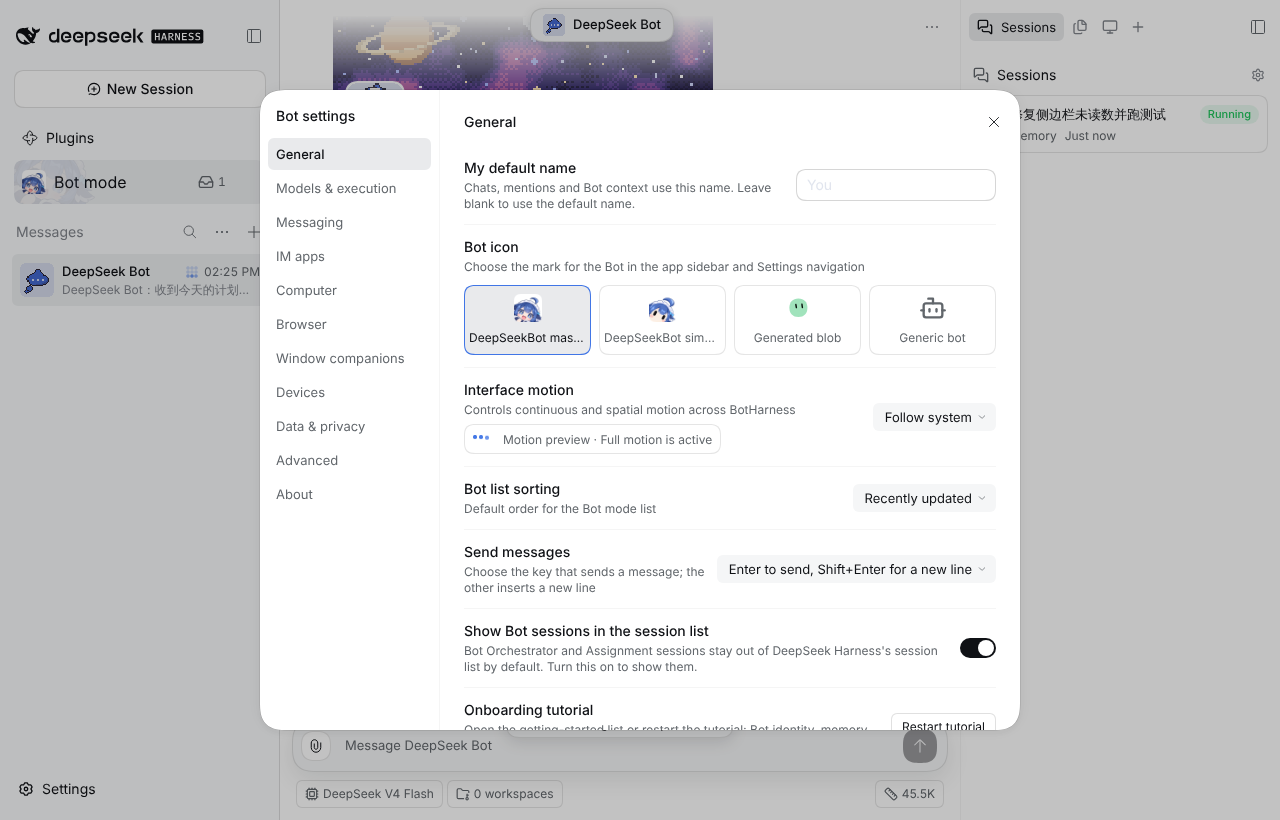
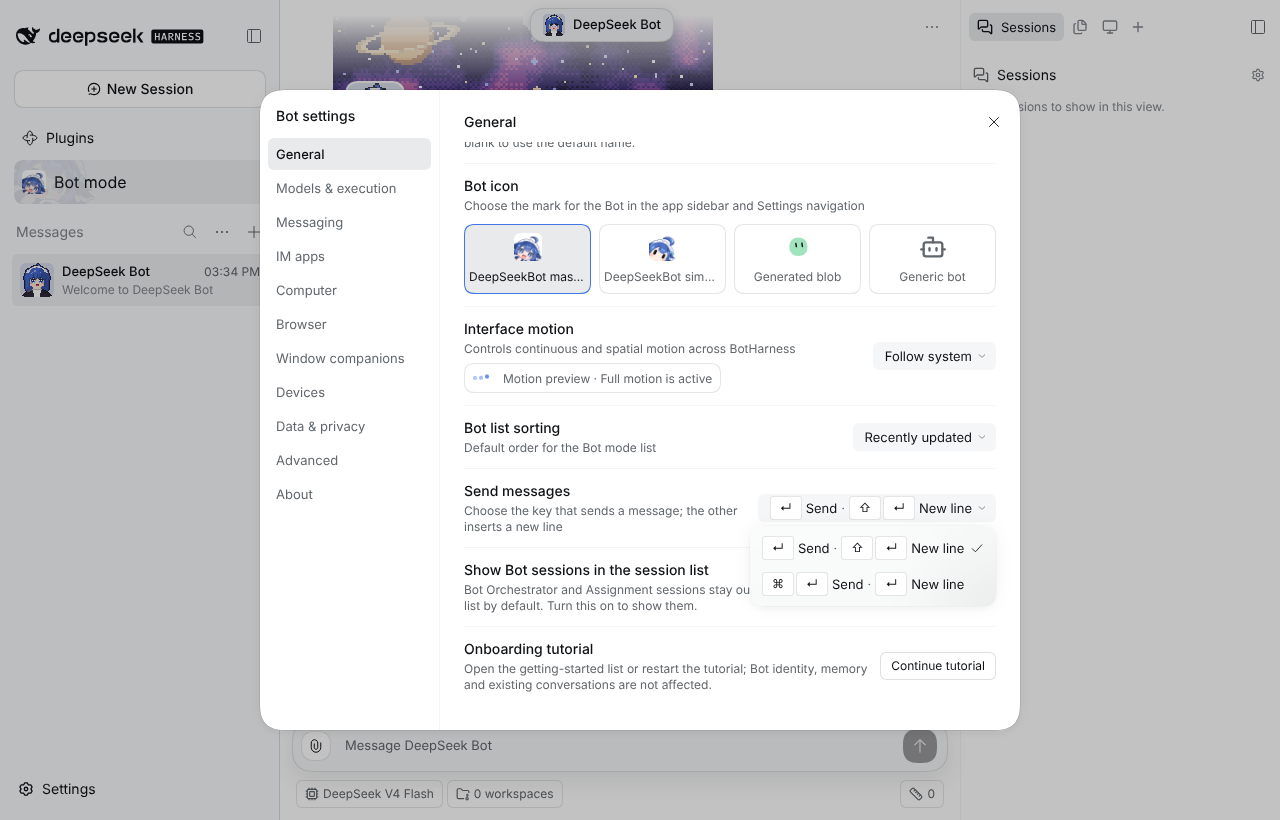
Show the send-key choice as platform-aware keycaps
The Send messages options now render ↵, ⇧ and ⌘ (Ctrl on Windows and
Linux) as <kbd> keycaps instead of spelled-out key names, through a
shared ds/kbd helper.

Claude-Session: https://claude.ai/code/session_019q18LhG5kvqi82FD7eCHrf

diff --git a/packages/client/src/client/bot-mode-setting-rows.tsx b/packages/client/src/client/bot-mode-setting-rows.tsx
@@ -16,6 +16,7 @@ import {
 import { AssignmentConcurrencySetting } from './assignment-concurrency-setting.js';
 import { BotIcon } from './bot-icon.js';
 import type { BotModePrefsFace } from './bot-mode-prefs.js';
+import { isApplePlatform, KeyCombo, type ShortcutKey } from './ds/kbd.js';
 import { Select } from './ds/select.js';
 import { SettingsRow } from './ds/settings-row.js';
 import { border, color, radius, space, text } from './ds/tokens.stylex.js';
@@ -35,18 +36,34 @@ const ICON_OPTIONS: readonly { id: BotModeIcon; label: BotHarnessKey }[] = [
   { id: 'bot', label: 'icon.bot' },
 ];
 
-const MOTION_OPTIONS: readonly { id: BotModeMotionPreference; label: BotHarnessKey }[] = [
+const MOTION_OPTIONS: readonly {
+  id: BotModeMotionPreference;
+  label: BotHarnessKey;
+}[] = [
   { id: 'system', label: 'motion.system' },
   { id: 'reduce', label: 'motion.reduce' },
   { id: 'full', label: 'motion.full' },
 ];
 
-const SEND_KEY_OPTIONS: readonly { id: BotModeSendKey; label: BotHarnessKey }[] = [
-  { id: 'enter', label: 'sendKey.enter' },
-  { id: 'mod-enter', label: 'sendKey.modEnter' },
+const SEND_KEY_OPTIONS: readonly {
+  id: BotModeSendKey;
+  send: readonly ShortcutKey[];
+  newline: readonly ShortcutKey[];
+}[] = [
+  { id: 'enter', send: ['Enter'], newline: ['Shift', 'Enter'] },
+  { id: 'mod-enter', send: ['Mod', 'Enter'], newline: ['Enter'] },
 ];
 
 const styles = stylex.create({
+  sendKey: {
+    display: 'inline-flex',
+    alignItems: 'center',
+    gap: space.x2,
+    whiteSpace: 'nowrap',
+  },
+  sendKeySeparator: {
+    color: color.muted,
+  },
   grid: {
     display: 'grid',
     gridTemplateColumns: 'repeat(auto-fill, minmax(112px, 1fr))',
@@ -63,19 +80,29 @@ const styles = stylex.create({
     paddingInline: space.x2,
     borderWidth: border.hairline,
     borderStyle: 'solid',
-    borderColor: { default: color.border, ':is([aria-checked=true])': color.accent },
+    borderColor: {
+      default: color.border,
+      ':is([aria-checked=true])': color.accent,
+    },
     borderRadius: radius.md,
     backgroundColor: {
       default: 'transparent',
       ':hover': color.hover,
       ':is([aria-checked=true])': color.selected,
     },
-    color: { default: color.muted, ':hover': color.fg, ':is([aria-checked=true])': color.fg },
+    color: {
+      default: color.muted,
+      ':hover': color.fg,
+      ':is([aria-checked=true])': color.fg,
+    },
     fontFamily: 'inherit',
     fontSize: text.metaSize,
     lineHeight: text.metaLine,
     cursor: 'pointer',
-    outline: { default: 'none', ':focus-visible': `${border.focus} solid ${color.accent}` },
+    outline: {
+      default: 'none',
+      ':focus-visible': `${border.focus} solid ${color.accent}`,
+    },
   },
   art: {
     pointerEvents: 'none',
@@ -158,7 +185,10 @@ export function MotionSetting({
         <Select
           label={t('motion.menu.label')}
           value={prefs.motionPreference}
-          options={MOTION_OPTIONS.map((option) => ({ value: option.id, label: t(option.label) }))}
+          options={MOTION_OPTIONS.map((option) => ({
+            value: option.id,
+            label: t(option.label),
+          }))}
           onChange={(id) => {
             if (isBotModeMotionPreference(id)) setMotionPreference(id);
           }}
@@ -194,7 +224,10 @@ export function SortSetting({
         <Select
           label={t('sort.menu.label')}
           value={prefs.sortMode}
-          options={SORT_OPTIONS.map((option) => ({ value: option.id, label: t(option.label) }))}
+          options={SORT_OPTIONS.map((option) => ({
+            value: option.id,
+            label: t(option.label),
+          }))}
           onChange={(id) => {
             if (isBotModeSortMode(id)) setSortMode(id);
           }}
@@ -208,7 +241,8 @@ export function SendKeySetting({
   t,
   useBotModePrefs,
   setSendKey,
-}: BotModeSettingRowProps): ReactElement {
+  apple = isApplePlatform(),
+}: BotModeSettingRowProps & { apple?: boolean }): ReactElement {
   const sendKey = useBotModePrefs((value) => value.sendKey);
   return (
     <SettingsRow
@@ -219,7 +253,18 @@ export function SendKeySetting({
         <Select
           label={t('sendKey.row.title')}
           value={sendKey}
-          options={SEND_KEY_OPTIONS.map((option) => ({ value: option.id, label: t(option.label) }))}
+          options={SEND_KEY_OPTIONS.map((option) => ({
+            value: option.id,
+            label: (
+              <span data-send-key={option.id} {...stylex.props(styles.sendKey)}>
+                <KeyCombo keys={option.send} apple={apple} />
+                <span>{t('sendKey.send')}</span>
+                <span {...stylex.props(styles.sendKeySeparator)}>·</span>
+                <KeyCombo keys={option.newline} apple={apple} />
+                <span>{t('sendKey.newline')}</span>
+              </span>
+            ),
+          }))}
           onChange={(id) => {
             if (isBotModeSendKey(id)) setSendKey(id);
           }}

diff --git a/packages/client/test/bot-mode-setting-rows.test.ts b/packages/client/test/bot-mode-setting-rows.test.ts
@@ -32,8 +32,10 @@ import {
   DeveloperModeSetting,
   GroupAutoAcceptSetting,
   MotionSetting,
+  SendKeySetting,
   SortSetting,
 } from '../src/client/bot-mode-setting-rows.js';
+import { shortcutKeyLabel } from '../src/client/ds/kbd.js';
 import { zh, zhTranslate, type BotHarnessKey } from '../src/client/locale.js';
 
 const t = zhTranslate;
@@ -124,7 +126,10 @@ describe('Bot mode setting rows', () => {
     const setDeveloperMode = vi.fn();
     const markup = renderSection(snapshot(), undefined, undefined, undefined, setDeveloperMode);
     expect(markup).toContain('开发者模式');
-    expect(captured.switches[0]).toMatchObject({ checked: false, label: '开发者模式' });
+    expect(captured.switches[0]).toMatchObject({
+      checked: false,
+      label: '开发者模式',
+    });
     (captured.switches[0]?.['onChange'] as (enabled: boolean) => void)(true);
     expect(setDeveloperMode).toHaveBeenCalledWith(true);
   });
@@ -218,4 +223,59 @@ it('shows default Group auto-accept and writes its native switch', () => {
   expect(control).toMatchObject({ checked: true, disabled: false });
   (control['onChange'] as (enabled: boolean) => void)(false);
   expect(set).toHaveBeenCalledWith(false);
+});
+
+describe('send key setting', () => {
+  function renderSendKey(apple: boolean, sendKey: 'enter' | 'mod-enter', setSendKey = vi.fn()) {
+    const markup = renderToStaticMarkup(
+      createElement(SendKeySetting, {
+        t,
+        apple,
+        useBotModePrefs: ((selector: (value: BotModePrefsSnapshot) => unknown) =>
+          selector(snapshot({ sendKey }))) as never,
+        setSendKey: setSendKey as never,
+      } as never),
+    );
+    const items = (
+      menuWithItem('mod-enter')['items'] as readonly {
+        id: string;
+        label: unknown;
+      }[]
+    ).map((item) => ({
+      id: item.id,
+      markup: renderToStaticMarkup(createElement(Fragment, null, item.label as never)),
+    }));
+    return { markup, items, setSendKey };
+  }
+
+  it('shows symbol keycaps with Command on Apple platforms', () => {
+    const { markup, items } = renderSendKey(true, 'mod-enter');
+    expect(markup).toContain('<kbd title="Command"');
+    expect(markup).not.toContain('Ctrl');
+    expect(items.map((item) => item.id)).toEqual(['enter', 'mod-enter']);
+    expect(items[0]?.markup).toMatch(/>↵<\/kbd>.*发送.*>⇧<\/kbd>.*>↵<\/kbd>.*换行/u);
+    expect(items[1]?.markup).toMatch(/>⌘<\/kbd>.*>↵<\/kbd>.*发送.*>↵<\/kbd>.*换行/u);
+    expect(items.some((item) => item.markup.includes('Enter<'))).toBe(false);
+  });
+
+  it('shows Ctrl on other platforms and writes the picked key', () => {
+    const { items, setSendKey } = renderSendKey(false, 'enter');
+    expect(items[1]?.markup).toMatch(/>Ctrl<\/kbd>.*>↵<\/kbd>.*发送/u);
+    expect(items[1]?.markup).not.toContain('⌘');
+    const onSelect = menuWithItem('mod-enter')['onSelect'] as (id: string) => void;
+    onSelect('mod-enter');
+    expect(setSendKey).toHaveBeenCalledWith('mod-enter');
+  });
+
+  it('maps shortcut keys to platform symbols', () => {
+    expect(['Mod', 'Alt', 'Shift', 'Enter', '/'].map((key) => shortcutKeyLabel(key, true))).toEqual(
+      ['⌘', '⌥', '⇧', '↵', '/'],
+    );
+    expect(['Mod', 'Alt', 'Shift', 'Enter'].map((key) => shortcutKeyLabel(key, false))).toEqual([
+      'Ctrl',
+      'Alt',
+      '⇧',
+      '↵',
+    ]);
+  });
 });

diff --git a/packages/client/src/client/ds/kbd.tsx b/packages/client/src/client/ds/kbd.tsx
@@ -1,0 +1,92 @@
+import type { ReactElement } from 'react';
+import * as stylex from '@stylexjs/stylex';
+
+import { border, color, radius, space, text } from './tokens.stylex.js';
+
+export type ShortcutKey = string;
+
+const KEY_NAMES: Readonly<Record<string, string>> = {
+  Mod: 'Ctrl',
+  Shift: 'Shift',
+  Enter: 'Enter',
+  Alt: 'Alt',
+};
+
+export function isApplePlatform(): boolean {
+  if (typeof navigator === 'undefined') return false;
+  const platform =
+    (navigator as Navigator & { userAgentData?: { platform?: string } }).userAgentData?.platform ??
+    navigator.platform;
+  return /mac|iphone|ipad|ipod/iu.test(platform ?? '');
+}
+
+export function shortcutKeyLabel(key: ShortcutKey, apple: boolean): string {
+  if (key === 'Mod') return apple ? '⌘' : 'Ctrl';
+  if (key === 'Alt') return apple ? '⌥' : 'Alt';
+  if (key === 'Shift') return '⇧';
+  if (key === 'Enter') return '↵';
+  return key;
+}
+
+export function shortcutKeyName(key: ShortcutKey, apple: boolean): string {
+  if (key === 'Mod' && apple) return 'Command';
+  if (key === 'Alt' && apple) return 'Option';
+  return KEY_NAMES[key] ?? key;
+}
+
+const styles = stylex.create({
+  combo: {
+    display: 'inline-flex',
+    alignItems: 'center',
+    gap: space.x1,
+    verticalAlign: 'middle',
+  },
+  kbd: {
+    display: 'inline-flex',
+    alignItems: 'center',
+    justifyContent: 'center',
+    minWidth: '22px',
+    height: '22px',
+    paddingInline: space.x2,
+    borderWidth: border.hairline,
+    borderStyle: 'solid',
+    borderColor: color.border,
+    borderRadius: radius.xs,
+    backgroundColor: color.elevated,
+    color: color.fg,
+    fontFamily: 'inherit',
+    fontSize: text.metaSize,
+    lineHeight: 1,
+    whiteSpace: 'nowrap',
+  },
+});
+
+export function Kbd({
+  shortcutKey,
+  apple = isApplePlatform(),
+}: {
+  shortcutKey: ShortcutKey;
+  apple?: boolean;
+}): ReactElement {
+  return (
+    <kbd title={shortcutKeyName(shortcutKey, apple)} {...stylex.props(styles.kbd)}>
+      {shortcutKeyLabel(shortcutKey, apple)}
+    </kbd>
+  );
+}
+
+export function KeyCombo({
+  keys,
+  apple = isApplePlatform(),
+}: {
+  keys: readonly ShortcutKey[];
+  apple?: boolean;
+}): ReactElement {
+  return (
+    <span data-key-combo={keys.join('+')} {...stylex.props(styles.combo)}>
+      {keys.map((key) => (
+        <Kbd key={key} shortcutKey={key} apple={apple} />
+      ))}
+    </span>
+  );
+}

diff --git a/packages/client/src/client/locale.ts b/packages/client/src/client/locale.ts
@@ -725,8 +725,8 @@ export const zh = {
     'Bot 的 Orchestrator 和 Assignment 会话默认不出现在 DeepSeek Harness 的会话列表中。打开后会显示出来。',
   'sendKey.row.title': '发送消息',
   'sendKey.row.description': '选择发送消息的按键，另一种组合用于换行',
-  'sendKey.enter': 'Enter 发送，Shift+Enter 换行',
-  'sendKey.modEnter': 'Ctrl/⌘+Enter 发送，Enter 换行',
+  'sendKey.send': '发送',
+  'sendKey.newline': '换行',
   'developer.row.title': '开发者模式',
   'developer.row.description': '显示 Session 来源、工作区授权历史和高级选项',
   'roster.menu.label': '更多',
@@ -4024,8 +4024,8 @@ export const en = {
     "Bot Orchestrator and Assignment sessions stay out of DeepSeek Harness's session list by default. Turn this on to show them.",
   'sendKey.row.title': 'Send messages',
   'sendKey.row.description': 'Choose the key that sends a message; the other inserts a new line',
-  'sendKey.enter': 'Enter to send, Shift+Enter for a new line',
-  'sendKey.modEnter': 'Ctrl/⌘+Enter to send, Enter for a new line',
+  'sendKey.send': 'Send',
+  'sendKey.newline': 'New line',
   'developer.row.title': 'Developer mode',
   'developer.row.description':
     'Show Session provenance, workspace access history and advanced options',

diff --git a/changes/1725-composer-qol.md b/changes/1725-composer-qol.md
@@ -5,13 +5,13 @@ section: Added
 ## en
 
 - Drag files anywhere onto a conversation to attach them; a drop target appears while files hover ([#1725](https://github.com/BotHarness/DeepSeekBot/issues/1725)).
-- Settings → General → Send messages chooses between Enter and Ctrl/⌘+Enter to send; the other key inserts a new line ([#1726](https://github.com/BotHarness/DeepSeekBot/issues/1726)).
+- Settings → General → Send messages chooses between ↵ and ⌘ ↵ (Ctrl ↵ on Windows and Linux) to send, shown as keycaps; the other key inserts a new line ([#1726](https://github.com/BotHarness/DeepSeekBot/issues/1726)).
 - New composer slash commands: `/memory` and `/sessions` in a DM, plus `/profile`, `/settings` and `/sidebar` in DMs and Group Channels ([#1727](https://github.com/BotHarness/DeepSeekBot/issues/1727)).
 - Your own messages that use Markdown (code blocks, inline code, bold, lists, headings, quotes, links, tables) now render formatted, keeping the line breaks you typed ([#1728](https://github.com/BotHarness/DeepSeekBot/issues/1728)).
 
 ## zh
 
 - 把文件拖到会话任意位置即可添加附件，拖动时会出现放置区域（[#1725](https://github.com/BotHarness/DeepSeekBot/issues/1725)）。
-- 设置 → 通用 → 发送消息 可选 Enter 或 Ctrl/⌘+Enter 发送，另一种组合用于换行（[#1726](https://github.com/BotHarness/DeepSeekBot/issues/1726)）。
+- 设置 → 通用 → 发送消息 以键帽显示，可选 ↵ 或 ⌘ ↵（Windows 和 Linux 上为 Ctrl ↵）发送，另一种组合用于换行（[#1726](https://github.com/BotHarness/DeepSeekBot/issues/1726)）。
 - 输入框新增 / 命令：私聊里的 `/memory`、`/sessions`，以及私聊和群聊都有的 `/profile`、`/settings`、`/sidebar`（[#1727](https://github.com/BotHarness/DeepSeekBot/issues/1727)）。
 - 你发的消息如果用了 Markdown（代码块、行内代码、粗体、列表、标题、引用、链接、表格），现在会按格式显示，并保留你输入的换行（[#1728](https://github.com/BotHarness/DeepSeekBot/issues/1728)）。
